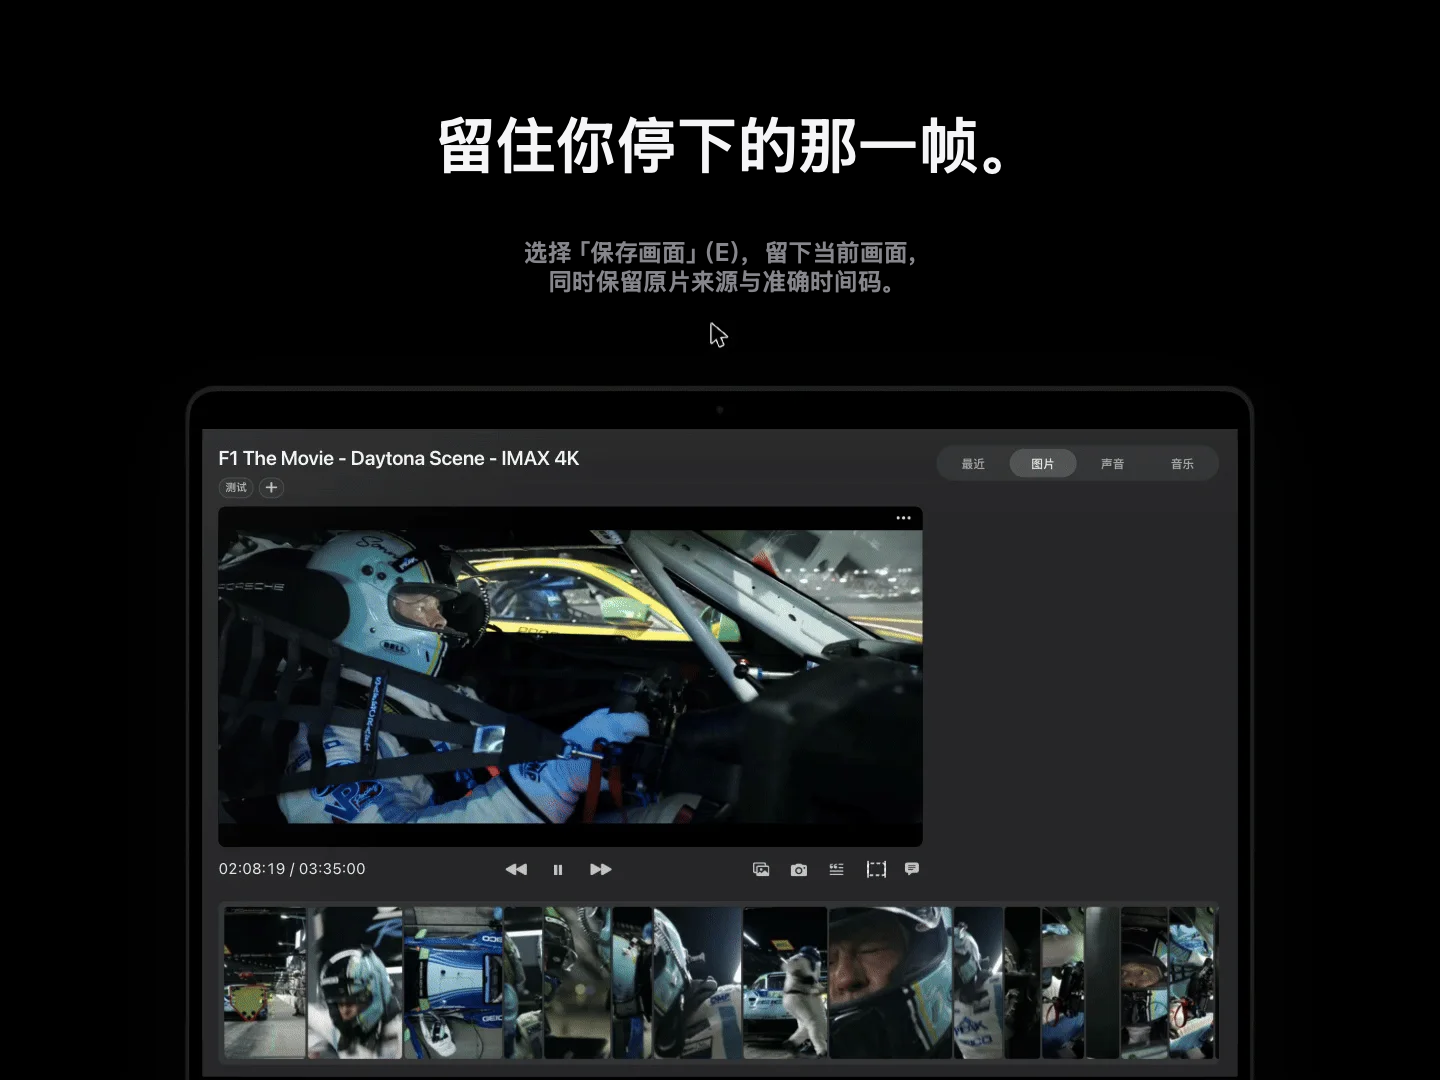
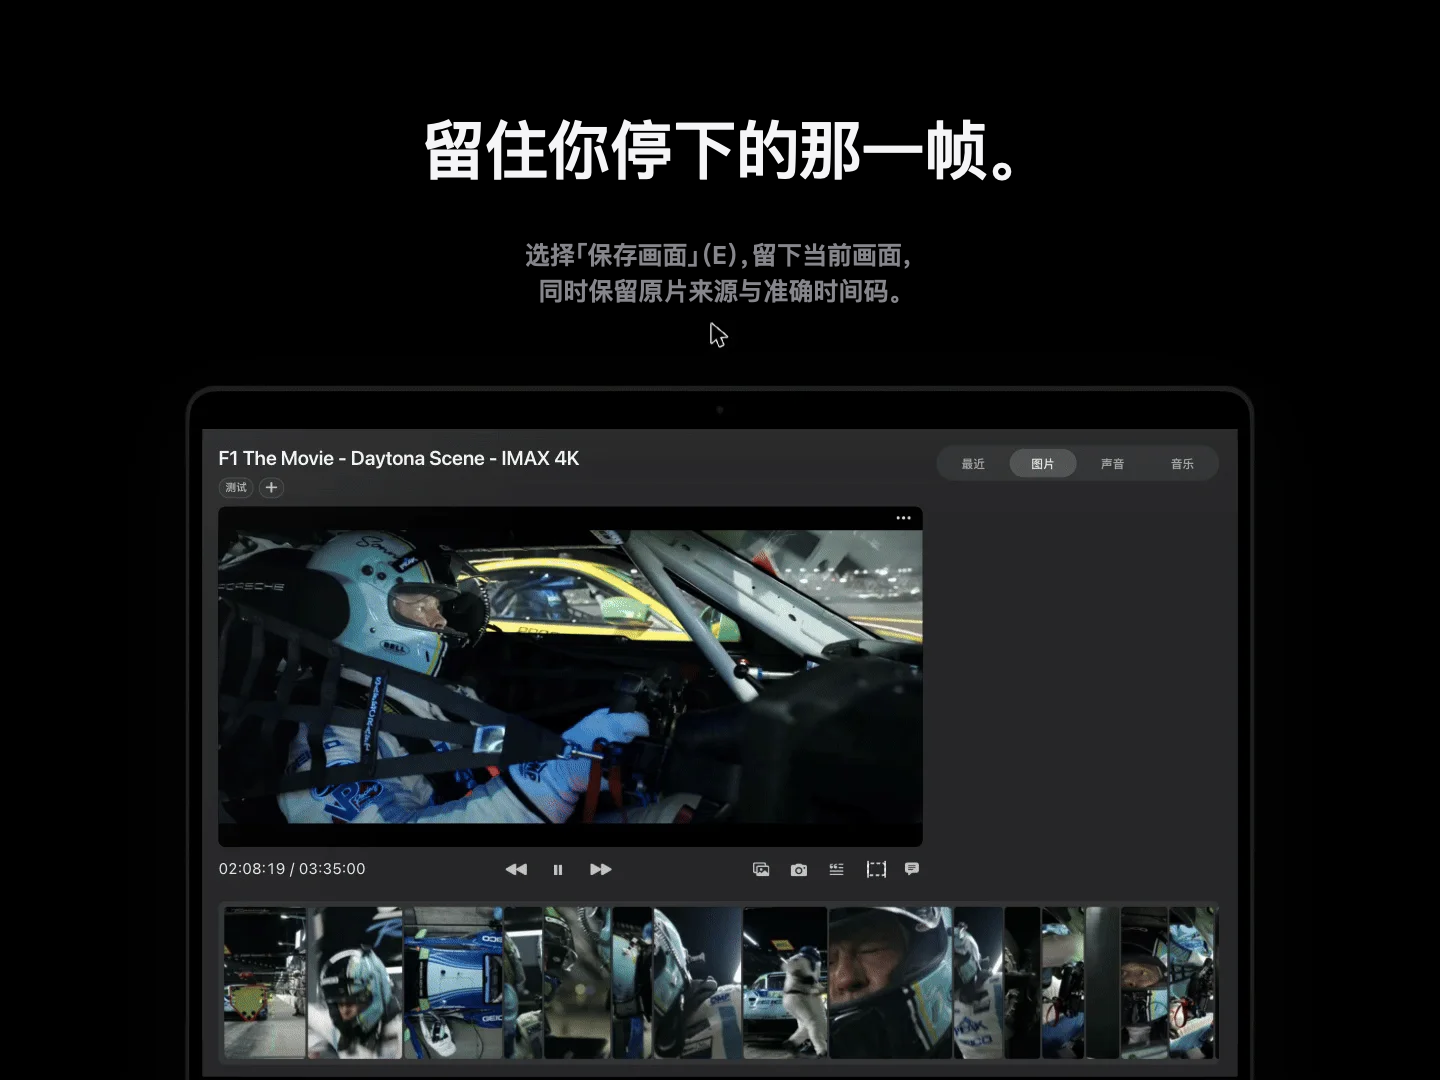
修正中文展示标点空隙并统一 SF Pro 字体级联

Changed region(s): [[0.2812, 0.0917, 0.7188, 0.1833], [0.3438, 0.2139, 0.6562, 0.3056]]

diff --git a/Tools/render_readme_chinese.swift b/Tools/render_readme_chinese.swift
@@ -1,4 +1,5 @@
 import AppKit
+import CoreText
 import ImageIO
 import UniformTypeIdentifiers
 // Native renderer for the Chinese README graphics. Run on macOS:
@@ -10,9 +11,30 @@ try FileManager.default.createDirectory(at:output.appendingPathComponent("poster
 func color(_ hex:Int)->NSColor { NSColor(srgbRed:CGFloat((hex>>16)&255)/255,green:CGFloat((hex>>8)&255)/255,blue:CGFloat(hex&255)/255,alpha:1) }
 func drawText(_ s:String,_ r:NSRect,_ size:CGFloat,_ weight:NSFont.Weight = .semibold,_ tint:NSColor = color(0xf5f5f7),_ center:Bool = false) {
  let p=NSMutableParagraphStyle(); p.alignment=center ? .center : .left
- // SF system font supplies Latin glyphs; Core Text chooses the matching CJK fallback.
- let font=NSFont.systemFont(ofSize:size,weight:weight)
- (s as NSString).draw(in:r,withAttributes:[.font:font,.foregroundColor:tint,.paragraphStyle:p])
+ // SF Pro has no Han glyphs. Use an explicit CJK cascade with half-width
+ // punctuation advances, instead of relying on the system UI font fallback.
+ let suffix = weight == .regular ? "Regular" : "Semibold"
+ let cjk = CTFontDescriptorCreateWithAttributes([
+  kCTFontNameAttribute: "PingFangSC-" + suffix,
+  kCTFontFeatureSettingsAttribute: [[kCTFontOpenTypeFeatureTag: "halt", kCTFontOpenTypeFeatureValue: 1]]
+ ] as CFDictionary)
+ let sf = CTFontDescriptorCreateWithAttributes([
+  kCTFontNameAttribute: (size >= 24 ? "SFProDisplay-" : "SFProText-") + suffix,
+  kCTFontCascadeListAttribute: [cjk]
+ ] as CFDictionary)
+ let font = CTFontCreateWithFontDescriptor(sf,size,nil)
+ let text = NSMutableAttributedString(string:s,attributes:[.font:font,.foregroundColor:tint,.paragraphStyle:p])
+ // Apply the CJK descriptor explicitly so punctuation retains its spacing feature.
+ let chinese = CTFontCreateWithFontDescriptor(cjk,size,nil)
+ let ns = s as NSString
+ for i in 0..<ns.length {
+  let u = ns.character(at:i)
+  if (0x2E80...0x9FFF).contains(u) || (0xFF00...0xFFEF).contains(u) {
+   text.addAttribute(.font,value:chinese,range:NSRange(location:i,length:1))
+  }
+ }
+ if size >= 30 { text.addAttribute(.kern,value:-0.02*size,range:NSRange(location:0,length:text.length)) }
+ text.draw(in:r)
 }
 func render(_ w:Int,_ h:Int,_ body:()->Void)->CGImage {
  let rep=NSBitmapImageRep(bitmapDataPlanes:nil,pixelsWide:w,pixelsHigh:h,bitsPerSample:8,samplesPerPixel:4,hasAlpha:true,isPlanar:false,colorSpaceName:.deviceRGB,bytesPerRow:0,bitsPerPixel:0)!
